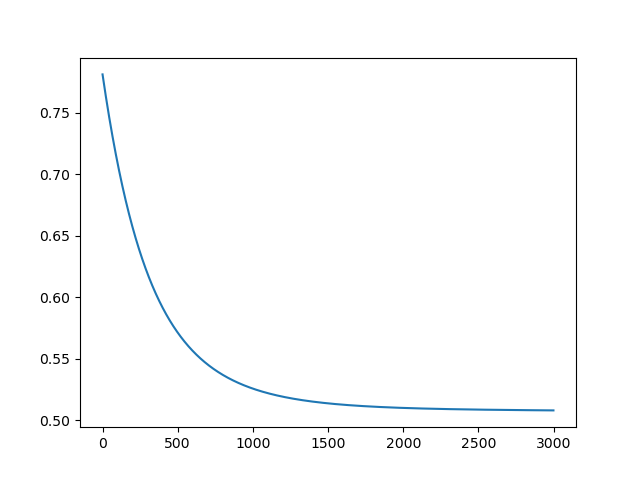
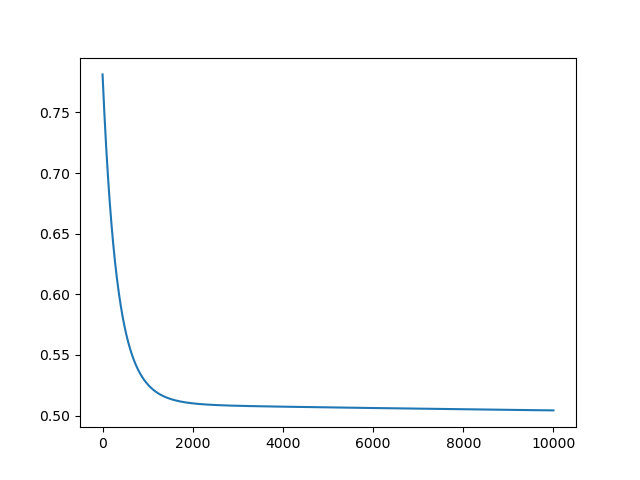
graficas y paralelo

diff --git a/scripts/muestreo.py b/scripts/muestreo.py
@@ -6,10 +6,8 @@ import multiprocessing
 import os
 import sys
 import logit
-
-
-directorio_actual = os.getcwd()
-os.chdir(f'{directorio_actual}/data')
+import statistics
+from scipy.stats import norm, stats
 
 def remove_words(text):
     text_words = text.split()
@@ -45,135 +43,199 @@ def words_in_string(words, string):
             return 0
     return 1
 
-print('\n--------------------- Preprocessing ---------------------')
-df = pd.read_json('data.json')
-print("\n > Todo a lowercase")
-
-df['context'] = df['context'].apply(str.lower)
-df['questions'] = df['questions'].apply(lambda x: [e.lower() if isinstance(e, str) else e for e in x])
-df['ans'] = df['ans'].apply(lambda x: [e.lower() if isinstance(e, str) else e for e in x])
-
-print(" > Elimina stopwords")
-
-with open('stopwords.txt', 'r') as f:
-    words = f.read().split()
-df['context'] = df['context'].apply(remove_words)
-df['questions'] = df['questions'].apply(iterate_list,words=words)
-df['ans'] = df['ans'].apply(iterate_list,words=words)
-df['context'] = df['context'].str.split('.')
-
-print(" > Elimina strings vacíos")
-
-df['context'] = df['context'].apply(without_spaces)
-df_exploded = df.explode('context')
-df_exploded=df_exploded.set_index(['context']).apply(pd.Series.explode).reset_index()
-
-print(" > Calculamos jaccard_similarity")
-
-df_exploded['jaccard_similarity'] = df_exploded.apply(lambda x: jaccard_similarity(x['context'], x['questions']), axis=1)
-
-print(" > Revisa que la oración contenga la respuesta")
-
-df_exploded['contains_ans'] = df_exploded.apply(lambda x: words_in_string(x['ans'], x['context']), axis=1)
-
-print(" > Obtenemos la tabla jaccard")
-
-cols_to_select = ["jaccard_similarity", "contains_ans"]
-df_j = df_exploded.loc[:, cols_to_select]
-
-print('\n--------------------- Model training ---------------------')
-os.chdir(f'{directorio_actual}/scripts')
-print("\n > Tomamos una muestra de 0.05")
-
-np.random.seed(123454321)
-sample_size5 = 0.05 # Sample size as a percentage of the total population
-sample5 = df_j.sample(frac=sample_size5)
-sample_x5 = sample5.iloc[:,0].values.reshape(-1, 1)
-sample_y5 = sample5.iloc[:,-1].values.reshape(-1, 1)
-log5 = logit.Logit(X=sample_x5, y=sample_y5)
-print("\n > Lo entrenamos")
-log5.train()
-plt.plot(range(len(log5.loss_hist)), log5.loss_hist)
-os.chdir(f'{directorio_actual}/graficas')
-plt.savefig('loss_project5.png')
-
-print("\n > Tomamos una muestra de 0.01")
-os.chdir(f'{directorio_actual}/scripts')
-np.random.seed(123454321)
-sample_size1 = 0.01 # Sample size as a percentage of the total population
-sample1 = df_j.sample(frac=sample_size1)
-sample_x1 = sample1.iloc[:,0].values.reshape(-1, 1)
-sample_y1 = sample1.iloc[:,-1].values.reshape(-1, 1)
-log1 = logit.Logit(X=sample_x1, y=sample_y1)
-print("\n > Lo entrenamos")
-log1.train()
-plt.plot(range(len(log1.loss_hist)), log1.loss_hist)
-os.chdir(f'{directorio_actual}/graficas')
-plt.savefig('loss_project1.png')
-
-print("\n > Almacenamos theta´s")
-theta5_0=log5.theta[0][0]
-theta5_1=log5.theta[0][1]
-
-theta1_0=log1.theta[0][0]
-theta1_1=log1.theta[0][1]
-
-print("\n > Obtenemos bootstrap´s")
-
-theta5_0_bootstrap = []
-theta5_1_bootstrap = []
-
-theta1_0_bootstrap = []
-theta1_1_bootstrap = []
-
 # Define the function that trains a logistic regression model
 def train_model(bootstrap_sample):
-    bootstrap_5x = bootstrap_sample['jaccard_similarity'].values.reshape(-1, 1)
-    bootstrap_5y = bootstrap_sample['contains_ans'].values.reshape(-1, 1)
-    log5_b = logit.Logit(X=bootstrap_5x, y=bootstrap_5y)
-    log5_b.train()
-    return (log5_b.theta[0][0], log5_b.theta[0][1])
+    bootstrap_x = bootstrap_sample['jaccard_similarity'].values.reshape(-1, 1)
+    bootstrap_y = bootstrap_sample['contains_ans'].values.reshape(-1, 1)
+    log_b = logit.Logit(X=bootstrap_x, y=bootstrap_y)
+    log_b.train()
+    return (log_b.theta[0][0], log_b.theta[0][1])
+
+def append_results(result):
+    results.append(result)
 
 # Define the main function that uses multiple processes to train the models
-def parallel_train(bootstrap_sample_5, num_processes):
+def parallel_train(bootstrap_sample, num_processes):
     # Create a pool of processes
+    results=[]
     with multiprocessing.Pool(num_processes) as pool:
         # Use the pool of processes to train a model for each bootstrap sample
-        results = pool.map(train_model, bootstrap_sample_5)
-
+        #results = pool.map(train_model, bootstrap_sample_5)
+        for x in bootstrap_sample:
+            pool.apply_async(train_model, x,callback=append_results)
+        pool.close()
+        pool.join()
         # Return the list of results
-        return results
+    return results
 
-# Define the list of bootstrap samples
-bootstrap_sample_5 = [sample5.sample(n=len(sample5), replace=True) for _ in range(25)]
+if __name__ == "__main__":
+    directorio_actual = os.getcwd()
+    os.chdir(f'{directorio_actual}/data')
+    print('\n--------------------- Preprocessing ---------------------')
+    df = pd.read_json('data.json')
+    print("\n > Todo a lowercase")
 
-# Train the models using 2 processes
-results = parallel_train(bootstrap_sample_5, 4)
+    df['context'] = df['context'].apply(str.lower)
+    df['questions'] = df['questions'].apply(lambda x: [e.lower() if isinstance(e, str) else e for e in x])
+    df['ans'] = df['ans'].apply(lambda x: [e.lower() if isinstance(e, str) else e for e in x])
 
-for thetas in results:
-    theta5_0_bootstrap.append(thetas[0])
-    theta5_1_bootstrap.append(thetas[1])
+    print(" > Elimina stopwords")
 
-print("Sin filtrar")
-print(theta5_0_bootstrap)
-print(theta5_0_bootstrap)
+    with open('stopwords.txt', 'r') as f:
+        words = f.read().split()
+    df['context'] = df['context'].apply(remove_words)
+    df['questions'] = df['questions'].apply(iterate_list,words=words)
+    df['ans'] = df['ans'].apply(iterate_list,words=words)
+    df['context'] = df['context'].str.split('.')
 
-quantile_975 = np.quantile(theta5_0_bootstrap, 0.975)
-quantile_025 = np.quantile(theta5_0_bootstrap, 0.025)
-theta_confidence95_0 = np.where((theta5_0_bootstrap < quantile_975) & (theta5_0_bootstrap > quantile_025), theta5_0_bootstrap, np.nan)
-theta_confidence95_0 = np.nan_to_num(theta_confidence95_0)
-theta_confidence95_0 = [x for x in theta_confidence95_0 if x != 0]
+    print(" > Elimina strings vacíos")
 
-quantile_975 = np.quantile(theta5_1_bootstrap, 0.975)
-quantile_025 = np.quantile(theta5_1_bootstrap, 0.025)
-theta_confidence95_1 = np.where((theta5_1_bootstrap < quantile_975) & (theta5_1_bootstrap > quantile_025), theta5_1_bootstrap, np.nan)
-theta_confidence95_1 = np.nan_to_num(theta_confidence95_1)
-theta_confidence95_1 = [x for x in theta_confidence95_1 if x != 0]
+    df['context'] = df['context'].apply(without_spaces)
+    df_exploded = df.explode('context')
+    df_exploded=df_exploded.set_index(['context']).apply(pd.Series.explode).reset_index()
 
-print("Filtrados")
-print(theta_confidence95_0)
-print(theta_confidence95_1)
+    print(" > Calculamos jaccard_similarity")
 
-#plt.scatter(range(len()), log1.loss_hist)
-#os.chdir(f'{directorio_actual}/graficas')
-#plt.savefig('confidence_interval_5.png')
+    df_exploded['jaccard_similarity'] = df_exploded.apply(lambda x: jaccard_similarity(x['context'], x['questions']), axis=1)
+
+    print(" > Revisa que la oración contenga la respuesta")
+
+    df_exploded['contains_ans'] = df_exploded.apply(lambda x: words_in_string(x['ans'], x['context']), axis=1)
+
+    print(" > Obtenemos la tabla jaccard")
+
+    cols_to_select = ["jaccard_similarity", "contains_ans"]
+    df_j = df_exploded.loc[:, cols_to_select]
+
+    print('\n--------------------- Model training ---------------------')
+    os.chdir(f'{directorio_actual}/scripts')
+    print("\n > Tomamos una muestra de 0.05")
+
+    np.random.seed(123454321)
+    sample_size5 = 0.05 # Sample size as a percentage of the total population
+    sample5 = df_j.sample(frac=sample_size5)
+    sample_x5 = sample5.iloc[:,0].values.reshape(-1, 1)
+    sample_y5 = sample5.iloc[:,-1].values.reshape(-1, 1)
+    log5 = logit.Logit(X=sample_x5, y=sample_y5)
+    print("\n > Lo entrenamos")
+    log5.train()
+    plt.plot(range(len(log5.loss_hist)), log5.loss_hist)
+    os.chdir(f'{directorio_actual}/graficas')
+    plt.savefig('loss_project5.png')
+
+    print("\n > Tomamos una muestra de 0.01")
+    os.chdir(f'{directorio_actual}/scripts')
+    np.random.seed(123454321)
+    sample_size1 = 0.01 # Sample size as a percentage of the total population
+    sample1 = df_j.sample(frac=sample_size1)
+    sample_x1 = sample1.iloc[:,0].values.reshape(-1, 1)
+    sample_y1 = sample1.iloc[:,-1].values.reshape(-1, 1)
+    log1 = logit.Logit(X=sample_x1, y=sample_y1)
+    print("\n > Lo entrenamos")
+    log1.train()
+    plt.plot(range(len(log1.loss_hist)), log1.loss_hist)
+    os.chdir(f'{directorio_actual}/graficas')
+    plt.savefig('loss_project1.png')
+
+    print("\n > Almacenamos theta´s")
+    theta5_0=log5.theta[0][0]
+    theta5_1=log5.theta[0][1]
+
+    theta1_0=log1.theta[0][0]
+    theta1_1=log1.theta[0][1]
+
+    print("\n > Obtenemos bootstrap´s")
+
+    theta5_0_bootstrap = []
+    theta5_1_bootstrap = []
+
+    theta1_0_bootstrap = []
+    theta1_1_bootstrap = []
+
+    # Define the list of bootstrap samples
+    bootstrap_sample_5 = [sample5.sample(n=len(sample5), replace=True) for _ in range(100)]
+    # Train the models using 2 processes
+    # results=parallel_train(bootstrap_sample_5, 4)
+    results=[]
+    pool=multiprocessing.Pool(processes=10)
+    for rep in bootstrap_sample_5:
+        pool.apply_async(train_model,[rep],callback=append_results)
+    pool.close()
+    pool.join()
+    for thetas in results:
+        theta5_0_bootstrap.append(thetas[0])
+        theta5_1_bootstrap.append(thetas[1])
+    print("Sin filtrar")
+    print(theta5_0_bootstrap)
+    print(theta5_0_bootstrap)
+    quantile_975 = np.quantile(theta5_0_bootstrap, 0.975)
+    quantile_025 = np.quantile(theta5_0_bootstrap, 0.025)
+    theta_confidence95_0 = np.where((theta5_0_bootstrap < quantile_975) & (theta5_0_bootstrap > quantile_025), theta5_0_bootstrap, np.nan)
+    theta_confidence95_0 = np.nan_to_num(theta_confidence95_0)
+    theta_confidence95_0 = [x for x in theta_confidence95_0 if x != 0]
+
+    quantile_975 = np.quantile(theta5_1_bootstrap, 0.975)
+    quantile_025 = np.quantile(theta5_1_bootstrap, 0.025)
+    theta_confidence95_1 = np.where((theta5_1_bootstrap < quantile_975) & (theta5_1_bootstrap > quantile_025), theta5_1_bootstrap, np.nan)
+    theta_confidence95_1 = np.nan_to_num(theta_confidence95_1)
+    theta_confidence95_1 = [x for x in theta_confidence95_1 if x != 0]
+
+    print("Filtrados")
+    print(theta_confidence95_0)
+    print(theta_confidence95_1)
+
+    print("\n > Obtenemos las gráficas")
+    #theta 0
+    os.chdir(f'{directorio_actual}/graficas')
+    x=np.linspace(0, 100, len(theta5_0_bootstrap))
+    y=theta5_0_bootstrap 
+
+    p5 = np.percentile(theta5_0_bootstrap, 5)
+    p95 = np.percentile(theta5_0_bootstrap, 95)
+    plt.plot(x, y, 'o')
+    for i, val in enumerate(theta5_0_bootstrap):
+        if val <= p5:
+            plt.scatter(i, val, color='red')
+        elif val>=p95:
+            plt.scatter(i, val, color='red')
+            
+    plt.axhline(y = np.percentile(theta5_0_bootstrap, 5), color = 'r', label = 'axvline - full height')
+    plt.axhline(y = np.percentile(theta5_0_bootstrap, 95), color = 'r', label = 'axvline - full height')
+    #theta 1
+    x=np.linspace(0, 100, len(theta5_1_bootstrap))
+    y=theta5_1_bootstrap 
+
+    p5 = np.percentile(theta5_1_bootstrap, 5)
+    p95 = np.percentile(theta5_1_bootstrap, 95)
+    plt.plot(x, y, 'o')
+    for i, val in enumerate(theta5_1_bootstrap):
+        if val <= p5:
+            plt.scatter(i, val, color='yellow')
+        elif val>=p95:
+            plt.scatter(i, val, color='yellow')
+            
+    plt.axhline(y = np.percentile(theta5_1_bootstrap, 5), color = 'y', label = 'axvline - full height')
+    plt.axhline(y = np.percentile(theta5_1_bootstrap, 95), color = 'y', label = 'axvline - full height')
+    plt.savefig("Scatter_theta_5.png")
+
+    #PARA LA NORMALIZADA Y DISTRIBUCION
+    desviacion = statistics.stdev(theta5_0_bootstrap)
+    media = statistics.mean(theta5_0_bootstrap)
+    ci = norm.interval(0.95, loc=media, scale=desviacion)
+
+    x_norm = np.linspace(media - 3*desviacion, media + 3*desviacion, 100)
+    y_norm = norm.pdf(x_norm, media, desviacion)
+    plt.plot(x_norm, y_norm)
+    plt.axvline(x = np.percentile(x_norm, 5), color = 'r', label = 'axvline - full height')
+    plt.axvline(x = np.percentile(x_norm, 95), color = 'r', label = 'axvline - full height')
+
+    desviacion = statistics.stdev(theta5_1_bootstrap)
+    media = statistics.mean(theta5_1_bootstrap)
+    ci = norm.interval(0.95, loc=media, scale=desviacion)
+
+    x_norm = np.linspace(media - 3*desviacion, media + 3*desviacion, 100)
+    y_norm = norm.pdf(x_norm, media, desviacion)
+    plt.plot(x_norm, y_norm)
+    plt.axvline(x = np.percentile(x_norm, 5), color = 'b', label = 'axvline - full height')
+    plt.axvline(x = np.percentile(x_norm, 95), color = 'b', label = 'axvline - full height')
+    plt.savefig("Distribucion_theta_5.png")

diff --git a/scripts/logit.py b/scripts/logit.py
@@ -45,15 +45,15 @@ class Logit:
             p = self.forward()
             return -np.mean(self.y*np.log(p) + (1-self.y)*np.log(1-p))
 
-      def train(self, tol=1e-5, max_iter=3000):
+      def train(self, tol=1e-5, max_iter=10000):
             iters = 0
             loss = np.Inf
             #print(iters)
             while(loss > tol and iters < max_iter):
                   #print('.', end='', flush=True)
                   loss = self.loss()
-                  if not iters % 500:
-                        print(f'\nloss: {loss}')
+                  #if not iters % 500:
+                        #print(f'\nloss: {loss}')
                   p = self.forward().reshape(-1, 1)
                   self.theta -= -self.alpha*np.mean((self.y - p)*self.X, axis=0)
                   iters += 1
